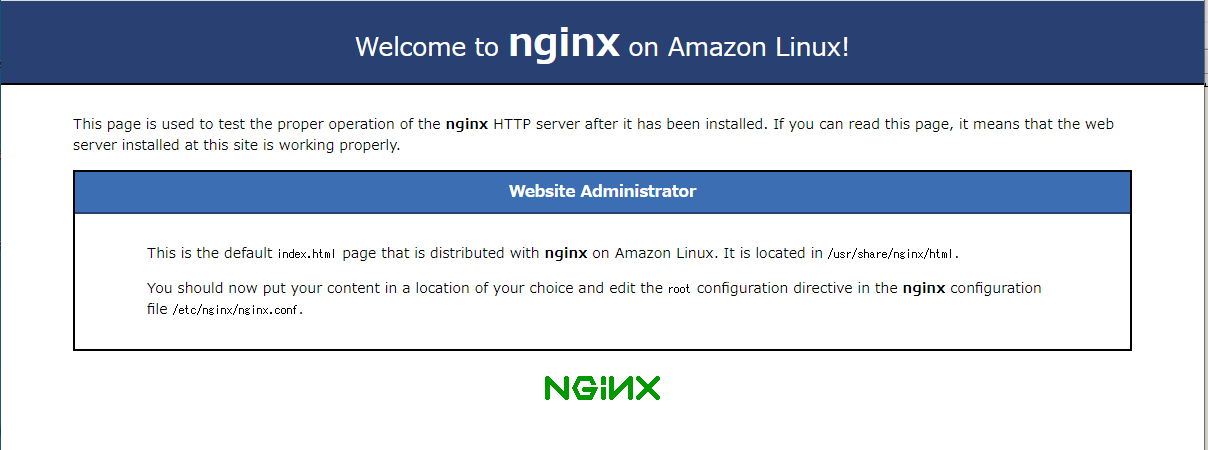
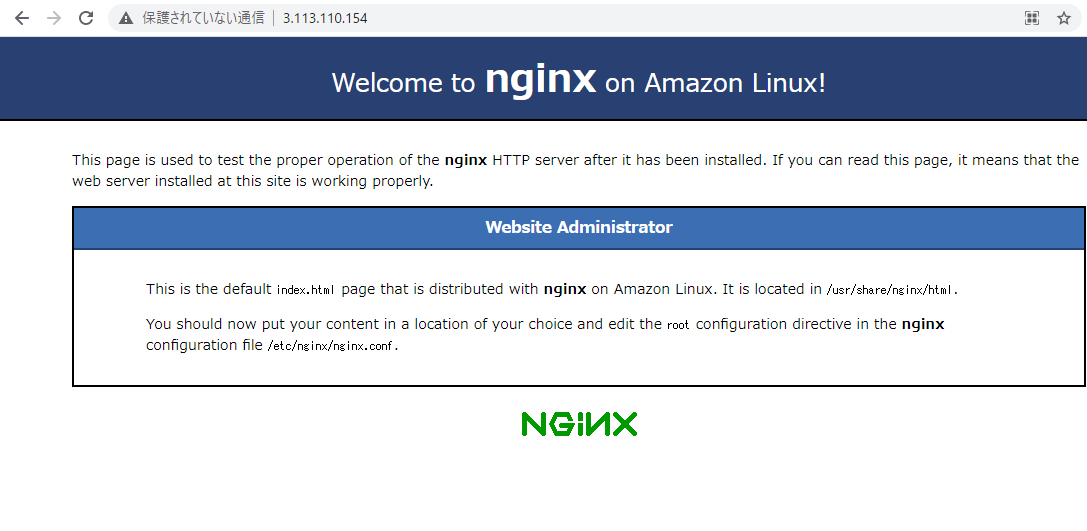
・リージョンを選ぶ手順を追加 ・もともと文末に書いていたリージョンに関する補足を削除（今回追加した手順とかぶるので） ・自身の接続IPの確認方法と修正方法を記載 ・ブラウザからアクセスしやすいようにURLを記載

Changed region(s): [[0.0, 0.0, 1.0, 1.0], [0.425, 0.7778, 0.6072, 0.9022]]

diff --git a/handson/server/aws_ec2/server_1.md b/handson/server/aws_ec2/server_1.md
@@ -22,14 +22,43 @@ AWSアカウントを作成してコンソールにログインする
 
 
 
+# リージョンを選択する
+
+EC2インタンスを作成する前に、どこのリージョンにインタンスを作るのかを決めます。
+
+リージョンは国単位に分かれており、これを選ぶことは「自分のAWSのデータを、どこの国のデータセンターに作成するのか」を選ぶことに相当します。
+
+<a href="https://docs.aws.amazon.com/ja_jp/AWSEC2/latest/UserGuide/using-regions-availability-zones.html" target="_blank">リージョンとゾーン - Amazon Elastic Compute Cloud</a>
+
+
+リージョンを選ぶ場合、「料金」と「利用できるサービス」と「通信速度」が選考のポイントになると思います。
+
+料金と通信速度はAWSサービス毎に異なります。
+
+
+使用したいAWSサービスを決めた上で、「料金」「利用できるサービス」「通信速度」の観点から最適なリージョンを選択しましょう。
+
+参考　<a href="https://cloud-textbook.com/734/"  target="_blank">AWS のリージョンの選び方</a>
+
+### リージョン選択方法
+
+今回はテストで作成するので「料金」「利用できるサービス」「通信速度」はあまり気にする必要はありません
+
+日本のデータセンターであるほうが通信速度が出るであろう、という理由でコンソール左上のプルダウンから「東京」リージョンを選択します。
+
+![region_01](..\img\region_01.png)
+
+
 # EC2 インスタンスを作成する
-
-
 
 ## EC2画面に移動
 
 コンソールの上にある検索欄に「EC2」と入れて検索し、表示されたらそれを選択します。
 ![ec2_01](../img/ec2_01.png)
+
+
+
+
 
 
 
@@ -138,12 +167,14 @@ HTTPの設定を追加しましょう
 これは「全てのIPアドレス」示す値なので、
 このセキュリティグループは「SSHとHTTPの接続であれば、どのIPアドレスからでも受けれますよ」という設定になります。
 
-特にSSHを全てのIPアドレスからアクセス許可してしまうのは危険なので
-なるべく自分のIPからしかアクセスを受け付けないよう制御をかけましょう
+特にSSHを全てのIPアドレスからアクセス許可してしまうのは危険なので、なるべく自分のIPからしかアクセスを受け付けないよう制御をかけましょう
 
+自身のIPアドレスを調べるのはwebサービスを使うのが簡単です
+https://www.cman.jp/network/support/go_access.cgi
 
+IPアドレスが分かったら、ソースを「カスタム」にして、調べたアドレスを入力しましょう。
 
-
+もしくは、ソースに「マイIP」を選択すれば、自動で自分のIPを設定してくれます。
 
 # SSHでアクセスする
 
@@ -190,66 +221,16 @@ $ systemctl status nginx
 ```
 
 これで設定は終わりです。
-ブラウザからhttpで作成したインスタンスにアクセスすれば、以下画面が表示されます。
+ブラウザからhttpで以下URLにアクセスしてみましょう
+無事に作成したインスタンスにアクセスできれば、以下画面が表示されます。
+<a>http://{インスタンスにsshする時に指定したIPアドレス}</a>
+例　http://3.113.110.154/
+
+
+
+![ec2_09.png](../img/ec2_09.png)
+
 もし、表示されなければセキュリティグループの設定を見直して
 ・HTTPが許可されていること
 ・自分のIPアドレスが許可されていること
 を確認してみてください
-
-![ec2_09.png](../img/ec2_09.png)
-
-
-
-
-
-
-
-# その他
-
-### インスタンスを作るリージョン
-EC2インスタンスをリージョンによって料金や利用できるサービスが異なります。
-
-試しに作るならどのリージョンでも良いと思いますが
-ちゃんとしたサービスを作る場合は要チェックです。
-
-以下は、リージョンの選び方と料金に関する参考記事
-
-・AWSの料金
-https://www.bit-drive.ne.jp/managed-cloud/column/column_33.html
-
-・AWS のリージョンの選び方
-https://cloud-textbook.com/734/
-
-
-#### リージョンとは
-詳細は公式ドキュメントを参照
-<a href="https://docs.aws.amazon.com/ja_jp/AWSEC2/latest/UserGuide/using-regions-availability-zones.html" target="_blank">リージョンとゾーン - Amazon Elastic Compute Cloud</a>
-
-
-自分の理解は「自分のEC2インスタンスのデータが配置される国」
-
-イメージは
-・AWSは各国に巨大なパソコンを配置している
-・AWSは巨大パソコン毎にデータを管理している
-・ユーザが何らかのAWSサービス(EC2など)を利用すると、その巨大パソコンのどれかにデータが作られる
-・巨大パソコンはリージョンと呼ばれている
-
-そして重要なのは、**後からリージョンを変えるのは大変**なので商用で利用する場合は慎重に選ぶ必要があること
-
-#### リージョンの選び方
-リージョンによって
-料金、対応サービス、通信速度が異なるので、どれを重視するかでリージョンを決める
-
-**料金**
-EC2は主に、「インスタンスの起動時間」「ストレージ使用量」「通信量」の従量課金になっている。
-金額はリージョンによって異なり、例えば「インスタンスの起動時間」だと以下のように東京リージョンの方が高い
-
-|         リージョン         | インスタンスタイプ |      料金      |
-| :------------------------: | :----------------: | :------------: |
-| アジアパシフィック（東京） |      t2.micro      | 0.0152USD/時間 |
-| 米国東部（バージニア北部） |      t2.micro      | 0.0116USD/時間 |
-
-ほかに、「通信量」などを見ても東京リージョンは米国リージョンより高い料金で設定されている場合が多い
-
-リージョン毎の料金については下記の公式資料を参照
-https://aws.amazon.com/jp/ec2/pricing/on-demand/
